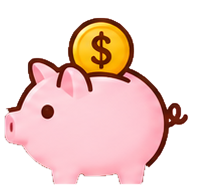
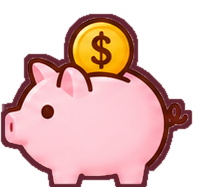
Add files via upload

Changed region(s): [[0.0, 0.0535, 0.99, 1.0]]

diff --git a/style.css b/style.css
@@ -384,3 +384,54 @@ body{background:#fff0eb}
 /* Final axis correction: reserve the middle 50% for the ornament, not the amount. */
 .overview .hero{grid-template-columns:13% minmax(0,31%) 2px minmax(0,1fr)!important;column-gap:1.4%!important}
 @media(max-width:380px){.overview .hero{grid-template-columns:12% minmax(0,32%) 2px minmax(0,1fr)!important;column-gap:1.3%!important}}
+
+/* v2.4: restore illustrated silhouettes and protect all balance labels from wrapping */
+.overview .hero {grid-template-columns:12% minmax(0,40%) 2px minmax(0,1fr)!important;column-gap:1.1%!important;}
+.hero-amount {min-width:0!important;}
+.hero small {white-space:nowrap!important;font-size:clamp(8px,2.45vw,13px)!important;letter-spacing:-.3px!important;}
+.hero .big {white-space:nowrap!important;font-size:clamp(23px,7.3vw,40px)!important;}
+.hero-motto {white-space:nowrap!important;font-size:clamp(8px,2.25vw,14px)!important;letter-spacing:-.25px!important;}
+.stats .card {gap:4px!important;padding:7px 8px!important;}
+.stats .stat-icon {flex:0 0 clamp(32px,9vw,55px)!important;width:clamp(32px,9vw,55px)!important;height:clamp(39px,11vw,64px)!important;}
+.stats small {white-space:nowrap!important;font-size:clamp(8px,2.15vw,13px)!important;letter-spacing:-.5px!important;}
+.stats strong {white-space:nowrap!important;font-size:clamp(12px,3.7vw,21px)!important;}
+.stats .stat-chevron {font-size:clamp(14px,3.5vw,22px)!important;}
+@media(max-width:380px){.overview .hero{grid-template-columns:12% minmax(0,40%) 2px minmax(0,1fr)!important;column-gap:1.1%!important}.stats .card{padding:7px 5px!important;gap:3px!important}.stats .stat-icon{flex-basis:30px!important;width:30px!important}.stats small{font-size:7.8px!important;letter-spacing:-.55px!important}.stats strong{font-size:12px!important}}
+
+/* v2.5 — reference-matched cards and heading, keeping all amounts live. */
+.overview .stats{gap:9px!important;margin-top:8px!important}
+.overview .stats .card{
+  display:grid!important;grid-template-columns:clamp(37px,11.5vw,60px) minmax(0,1fr) 12px!important;
+  gap:clamp(4px,1.3vw,9px)!important;align-items:center!important;
+  padding:8px clamp(7px,2vw,13px)!important;
+  min-width:0!important;height:clamp(77px,21vw,106px)!important;
+  background:linear-gradient(115deg,#fffafa,#fff1f5)!important;
+  border:1px solid #e9c1c8!important;border-radius:23px!important;
+  box-shadow:0 2px 5px #6e2c4311!important;
+}
+.overview .stats .stat-icon{
+  grid-column:1!important;width:100%!important;height:clamp(48px,14vw,75px)!important;
+  flex:none!important;object-fit:contain!important;
+  filter:drop-shadow(0 2px 1px #7b26331c)!important;
+}
+.overview .stats .stat-text{grid-column:2!important;display:flex!important;flex-direction:column!important;justify-content:center!important;gap:4px!important;min-width:0!important}
+.overview .stats small{font:700 clamp(9px,2.55vw,14px)/1.12 Georgia,serif!important;color:#89615b!important;letter-spacing:-.3px!important;white-space:nowrap!important}
+.overview .stats strong{font:800 clamp(13px,4vw,22px)/1.08 Georgia,serif!important;color:#920039!important;letter-spacing:-.45px!important;white-space:nowrap!important;margin:0!important}
+.overview .stats .stat-chevron{grid-column:3!important;justify-self:end!important;font:600 clamp(19px,5vw,26px)/1 sans-serif!important;color:#8c1c41!important}
+/* The heading in the approved reference has one hand-drawn heart, no flowers. */
+.sectiontitle.floral-heading{display:flex!important;align-items:center!important;justify-content:space-between!important;gap:6px!important;margin:8px 0 9px!important}
+.sectiontitle.floral-heading h2{display:flex!important;align-items:center!important;gap:9px!important;min-width:0!important;margin:0!important;font:italic 500 clamp(24px,7vw,40px)/1.1 Georgia,'Times New Roman',serif!important;letter-spacing:-1.15px!important;color:#7d0a35!important;white-space:nowrap!important}
+.sectiontitle.floral-heading .goldflower{font:400 clamp(30px,8vw,44px)/1 Georgia,serif!important;color:#a01846!important;display:inline-block!important;transform:rotate(-15deg)!important;flex:none!important}
+.sectiontitle.floral-heading .ghost{flex:none!important;white-space:nowrap!important;font-size:clamp(10px,2.7vw,14px)!important;font-weight:700!important;color:#920039!important;padding:4px 1px!important}
+/* Keep the ornament centered in the available horizontal space, never touching the summary text. */
+.overviewmore{display:flex!important;position:relative!important;align-items:center!important;justify-content:space-between!important;gap:8px!important}
+.overviewmore summary{flex:0 0 auto!important;z-index:1!important;white-space:nowrap!important}
+.overviewmore:not([open]):after{position:static!important;display:block!important;content:''!important;flex:1 1 auto!important;transform:none!important;left:auto!important;top:auto!important;width:auto!important;max-width:180px!important;min-width:65px!important;height:27px!important;margin-right:clamp(5px,7vw,65px)!important;background:url('./gold-heart-flourish.svg') center/contain no-repeat!important}
+.overviewmore[open]:after{display:none!important}
+@media(max-width:380px){
+ .overview .stats .card{grid-template-columns:clamp(31px,10vw,38px) minmax(0,1fr) 9px!important;gap:3px!important;padding:7px 6px!important}
+ .overview .stats small{font-size:clamp(8px,2.4vw,10px)!important;letter-spacing:-.45px!important}
+ .overview .stats strong{font-size:clamp(12px,3.7vw,15px)!important}
+ .sectiontitle.floral-heading h2{font-size:clamp(23px,6.6vw,28px)!important;gap:5px!important}
+ .sectiontitle.floral-heading .goldflower{font-size:30px!important}
+}

diff --git a/sw.js b/sw.js
@@ -1,6 +1,6 @@
 /* Pesito a Pesito 2.1 — network-first updates; offline fallback. */
-const CACHE='pesito-shell-v230';
-const ASSETS=['./index.html','./style.css?v=230','./app.js?v=230','./manifest.webmanifest','./icon-192.png','./icon-512.png','./detective-art.png','./mi-carterita-banner.webp','./gold-coins.png','./heart-purse.png','./savings-pig.png','./gold-heart-flourish.svg','./art-available-card.png','./art-mini-card.png'];
+const CACHE='pesito-shell-v250';
+const ASSETS=['./index.html','./style.css?v=250','./app.js?v=250','./manifest.webmanifest','./icon-192.png','./icon-512.png','./detective-art.png','./mi-carterita-banner.webp','./gold-coins.png','./heart-purse.png','./savings-pig.png','./gold-heart-flourish.svg','./art-available-card.png','./art-mini-card.png'];
 self.addEventListener('install',event=>event.waitUntil((async()=>{const cache=await caches.open(CACHE);await Promise.allSettled(ASSETS.map(url=>cache.add(url)));await self.skipWaiting()})()));
 self.addEventListener('activate',event=>event.waitUntil((async()=>{const keys=await caches.keys();await Promise.all(keys.filter(k=>k.startsWith('pesito-shell-')&&k!==CACHE).map(k=>caches.delete(k)));await self.clients.claim()})()));
 self.addEventListener('fetch',event=>{const req=event.request;if(req.method!=='GET'||new URL(req.url).origin!==self.location.origin)return;event.respondWith((async()=>{try{const response=await fetch(req,{cache:'no-store'});if(response.ok){const cache=await caches.open(CACHE);await cache.put(req,response.clone())}return response}catch{const cached=await caches.match(req);if(cached)return cached;if(req.mode==='navigate')return await caches.match('./index.html')||Response.error();return Response.error()}})())});

diff --git a/index.html b/index.html
@@ -1,2 +1,2 @@
 <!doctype html>
-<html lang="en"><head><meta charset="utf-8"><meta name="viewport" content="width=device-width,initial-scale=1,viewport-fit=cover"><meta name="theme-color" content="#F1EFED"><meta name="mobile-web-app-capable" content="yes"><meta name="apple-mobile-web-app-capable" content="yes"><title>Pesito a Pesito</title><link rel="icon" href="./icon-192.png"><link rel="apple-touch-icon" href="./icon-192.png"><link rel="manifest" href="./manifest.webmanifest"><link rel="stylesheet" href="./style.css?v=230"></head><body><div id="app"></div><div id="toast" role="status" aria-live="polite"></div><script src="./app.js?v=230" defer></script></body></html>
+<html lang="en"><head><meta charset="utf-8"><meta name="viewport" content="width=device-width,initial-scale=1,viewport-fit=cover"><meta name="theme-color" content="#F1EFED"><meta name="mobile-web-app-capable" content="yes"><meta name="apple-mobile-web-app-capable" content="yes"><title>Pesito a Pesito</title><link rel="icon" href="./icon-192.png"><link rel="apple-touch-icon" href="./icon-192.png"><link rel="manifest" href="./manifest.webmanifest"><link rel="stylesheet" href="./style.css?v=250"></head><body><div id="app"></div><div id="toast" role="status" aria-live="polite"></div><script src="./app.js?v=250" defer></script></body></html>

diff --git a/README.md b/README.md
@@ -1,1 +1,1 @@
-Pesito a Pesito v2.3 — artwork-first summary cards. Replace matching files in your GitHub Pages repository. Preserves existing localStorage keys. Do not clear browser data. Browser visual verification was blocked by the environment; test on your device.
+Pesito a Pesito v2.5 — matched reference styling for summary cards, outlined purse and piggy artwork, net worth ornament and Your Accounts heading. Extract all files to the repository root. Existing local data is not reset.
